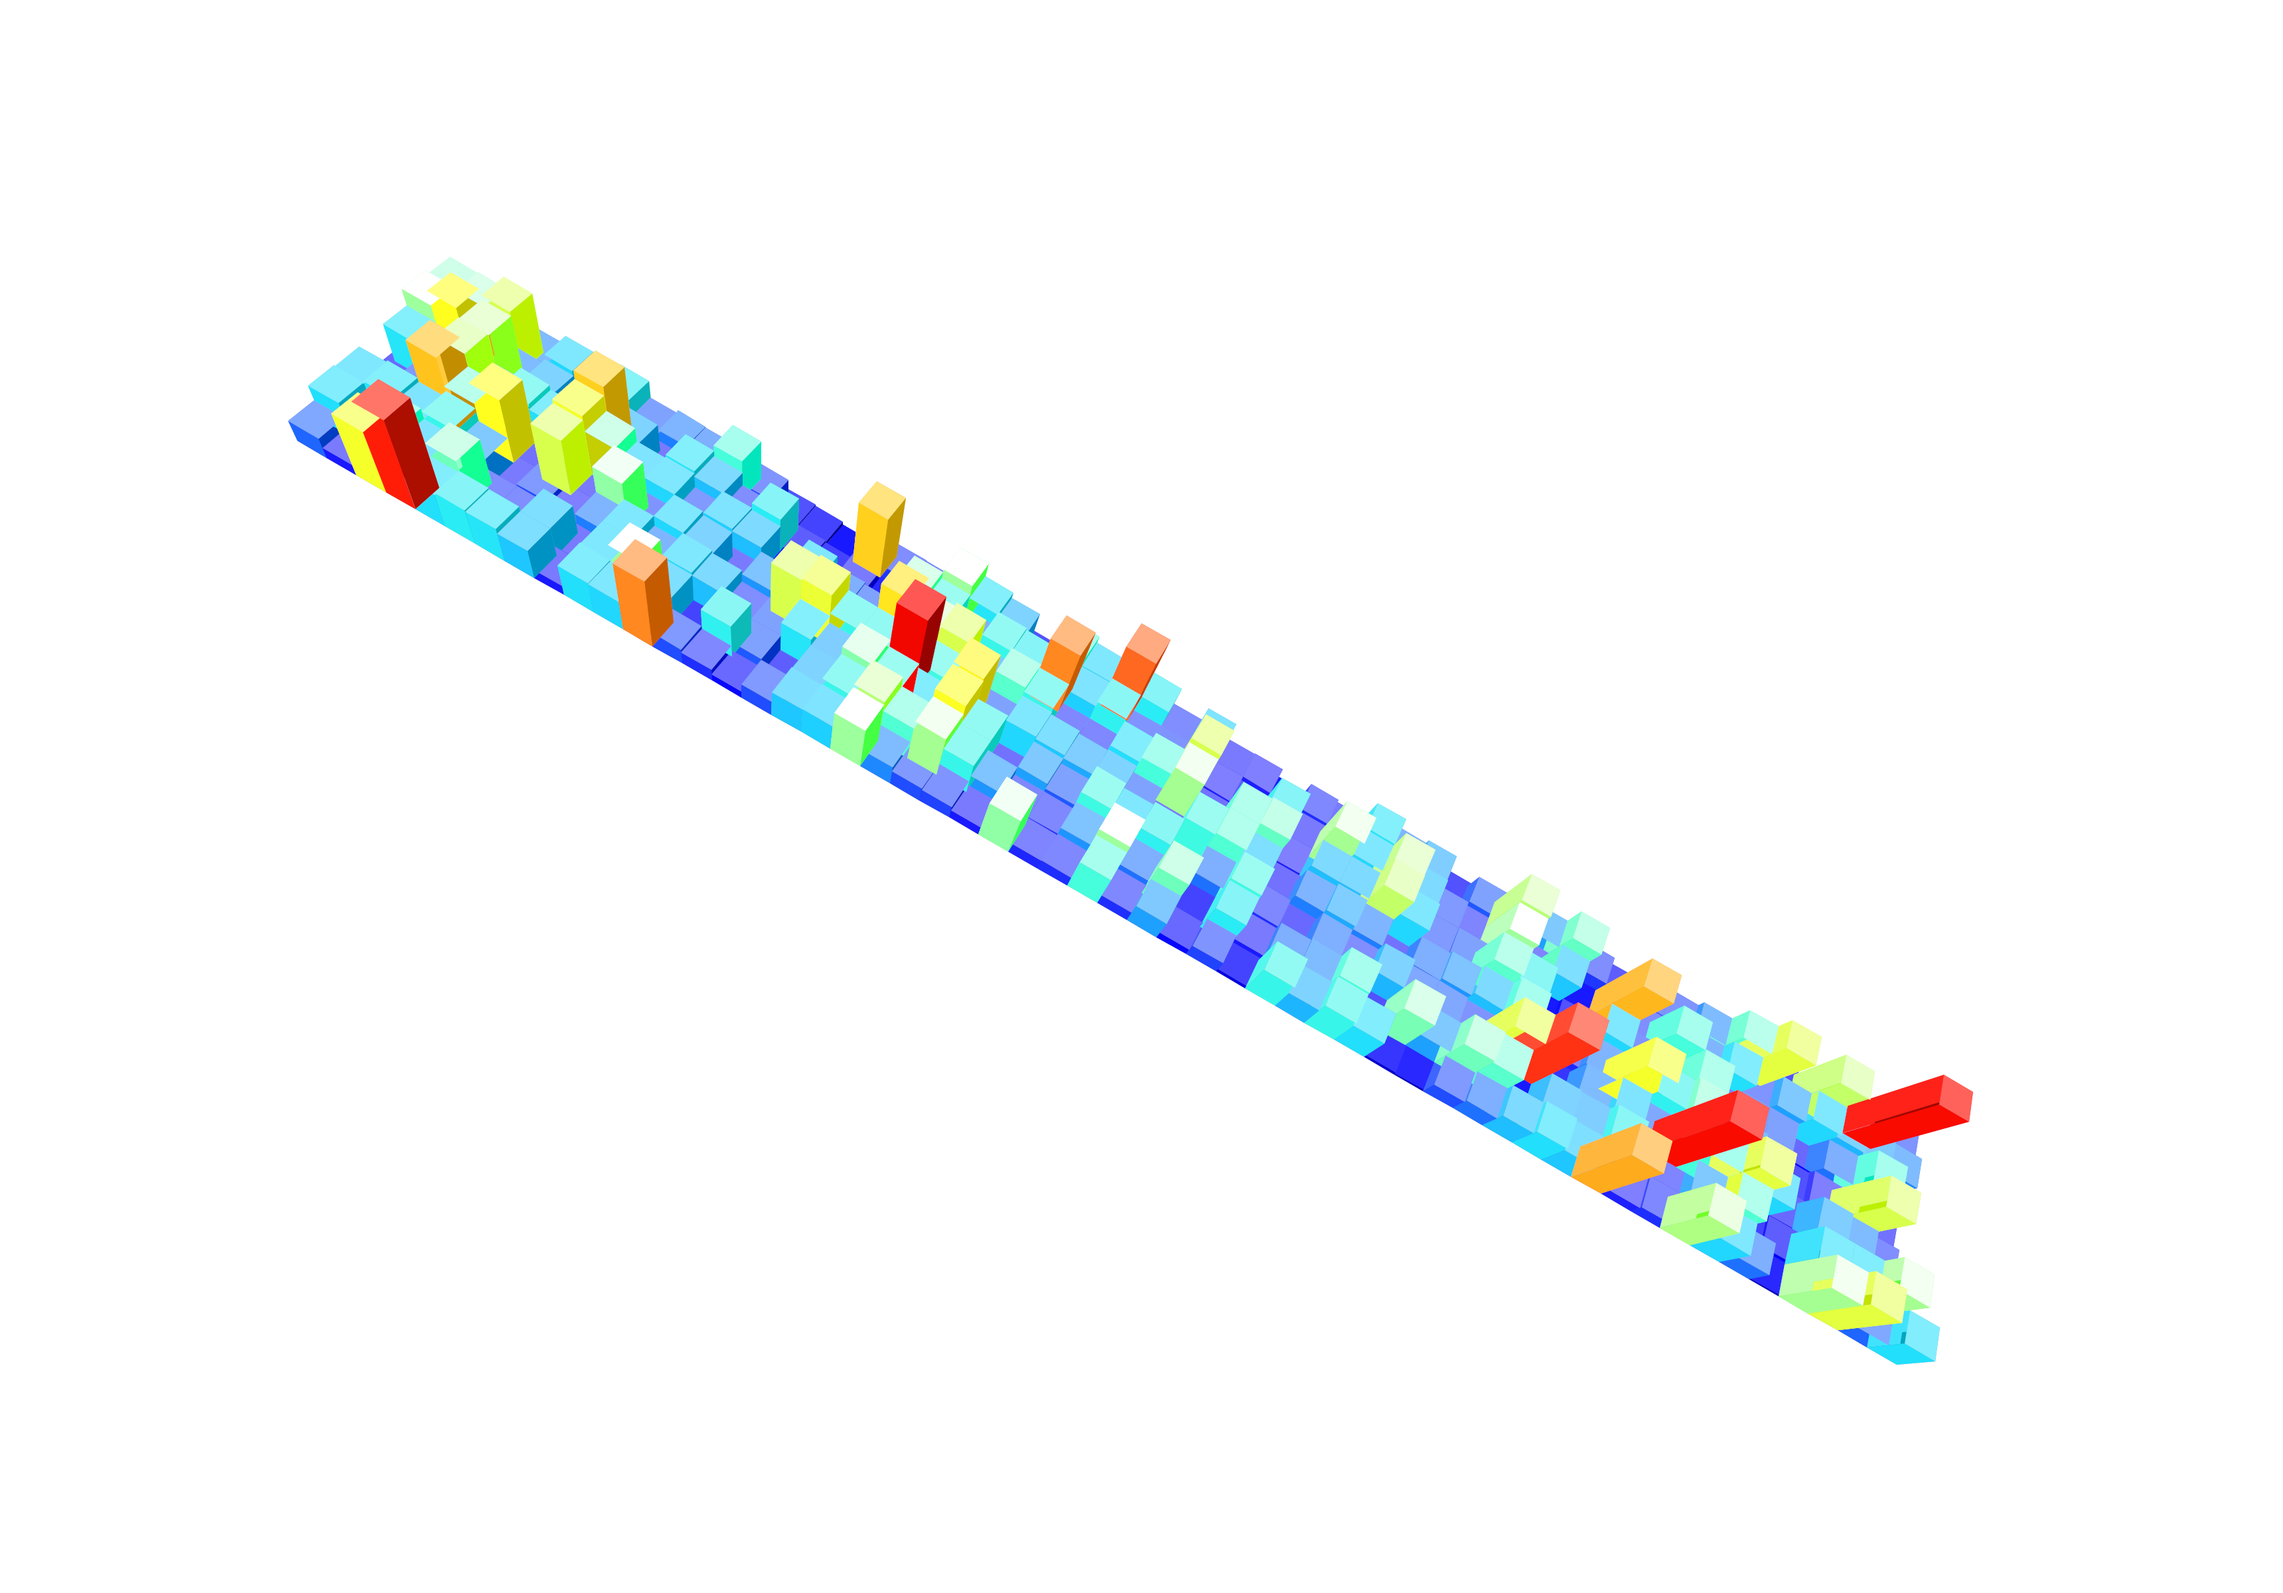
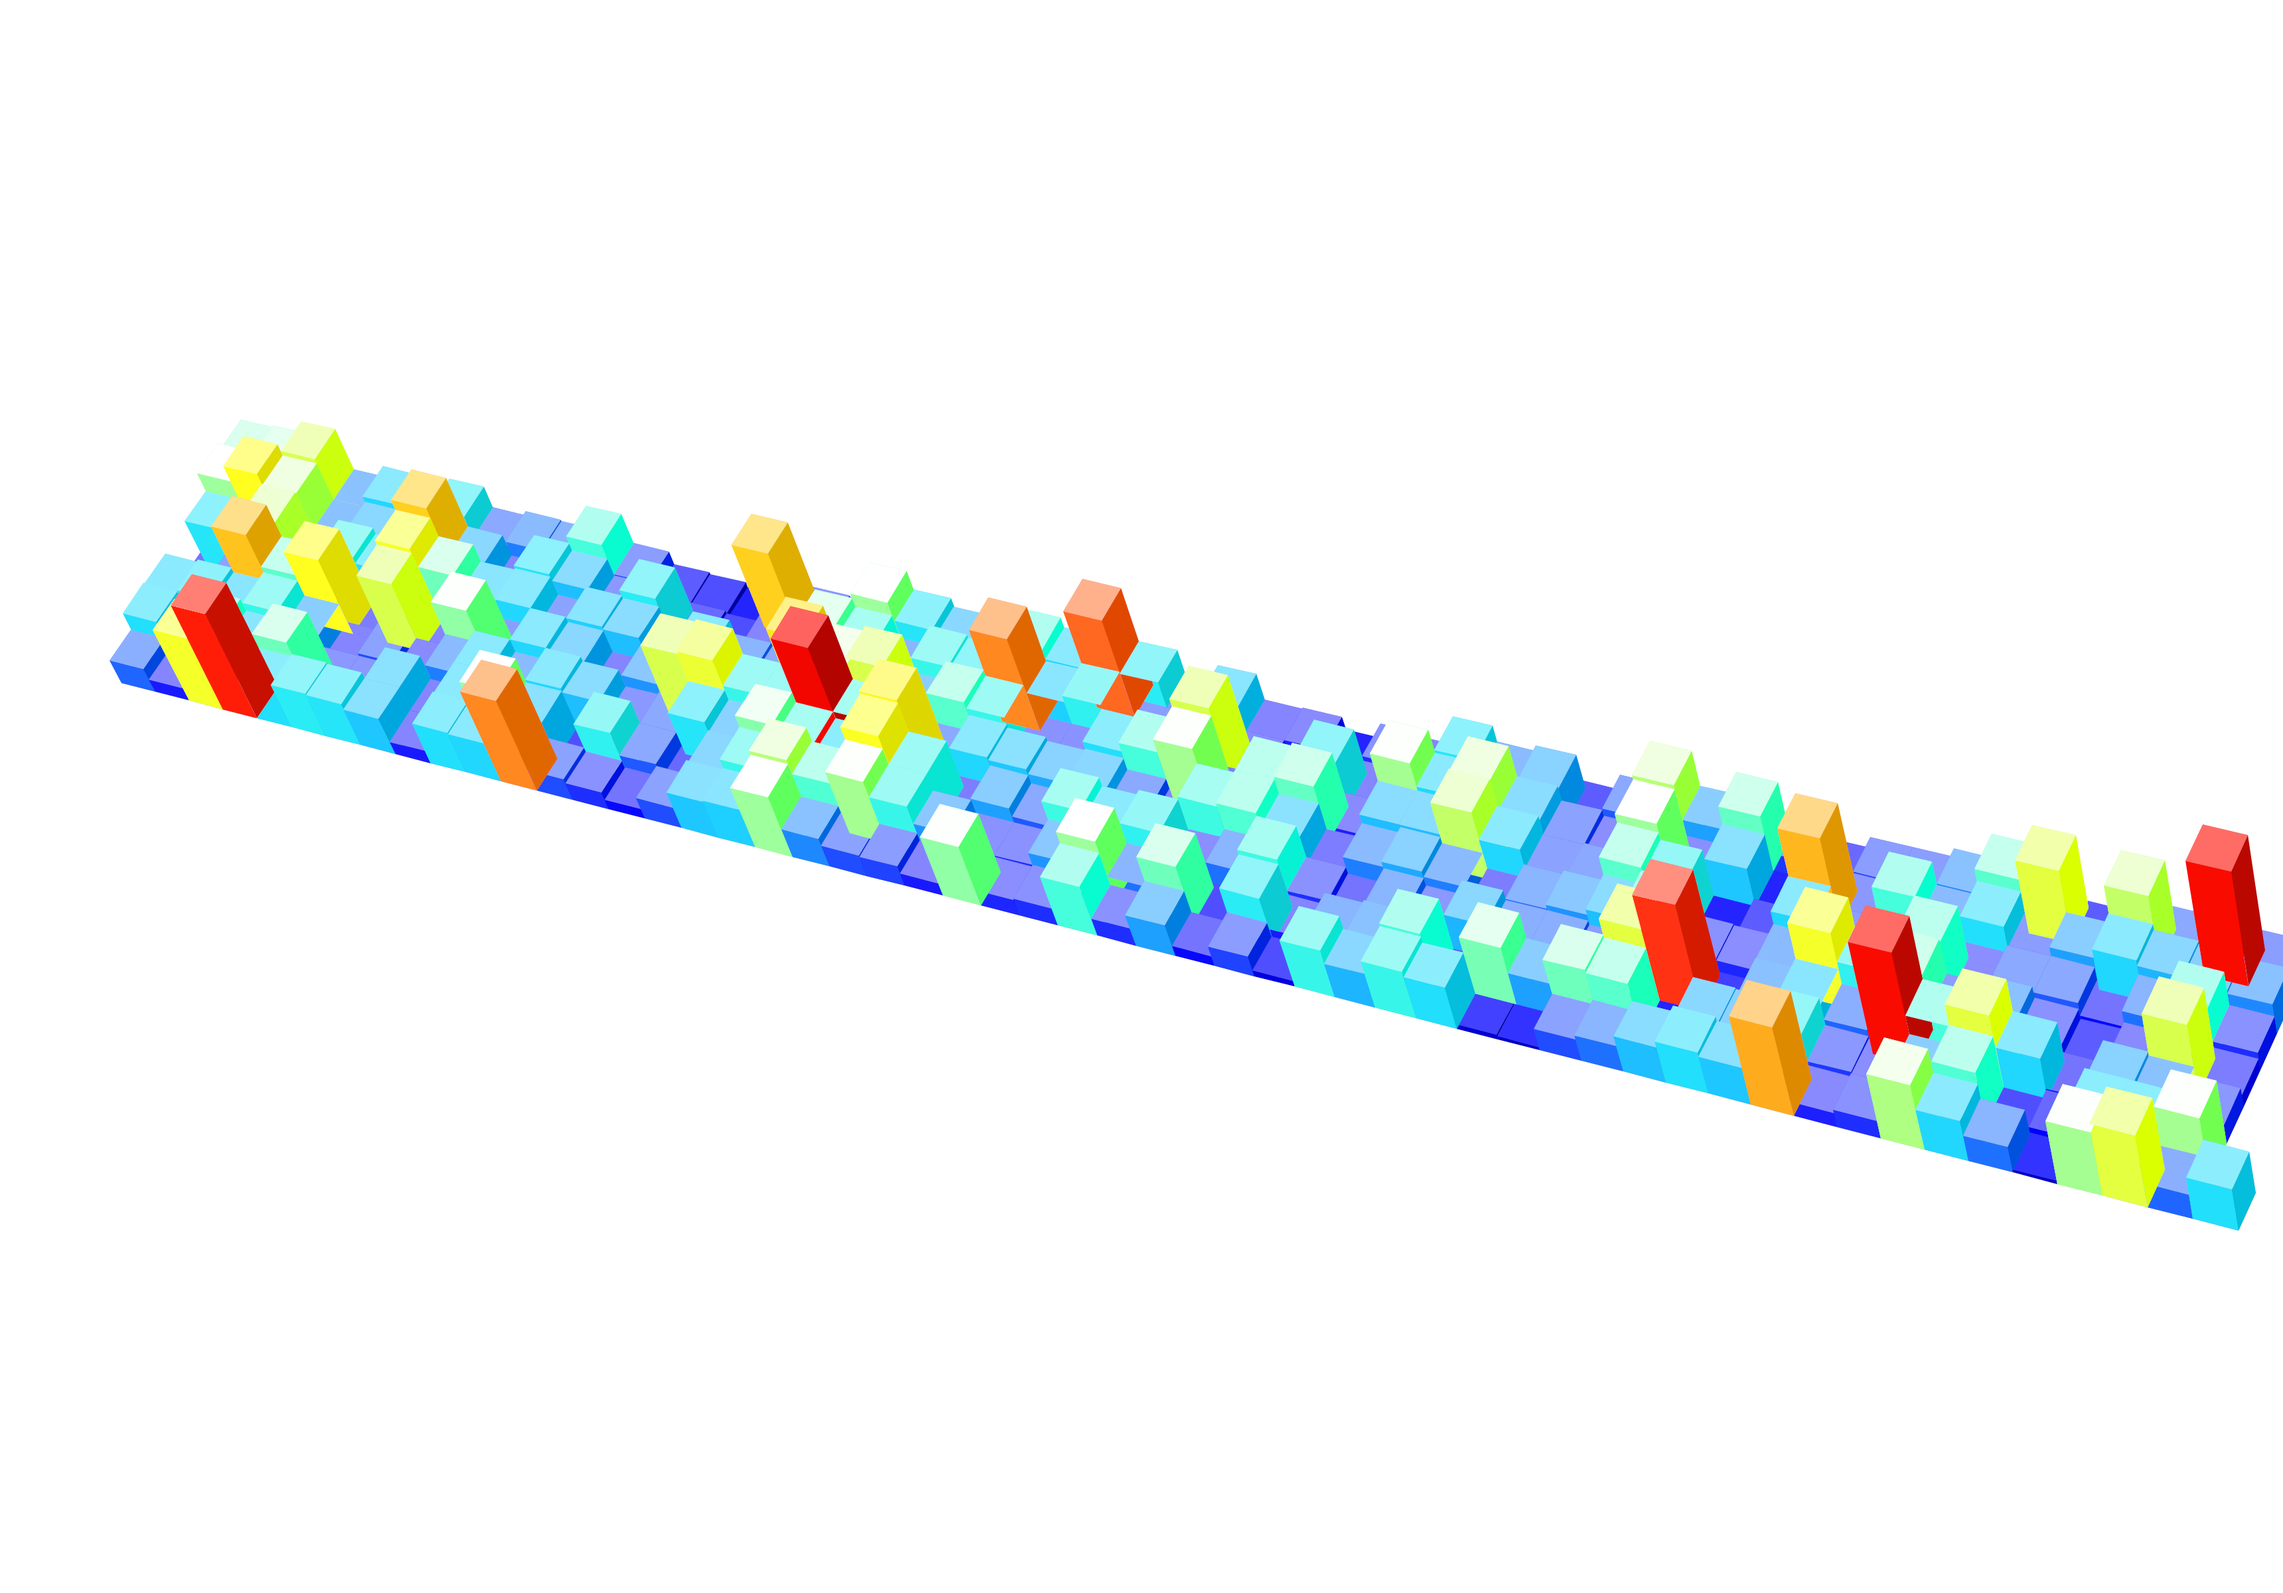
adjust 3d parameter

Changed region(s): [[0.0311, 0.1562, 1.0, 0.875]]

diff --git a/src/runtime/sciBASIC#/README.md b/src/runtime/sciBASIC#/README.md
@@ -100,6 +100,7 @@ Call bitmap.GetBinaryBitmap(BinarizationStyles.SparseGray)
 + **[2D Imaging & 3D graphics engine](./gr/Microsoft.VisualBasic.Imaging/)**
 + **[Isometric 3D graphics engine](./gr/Microsoft.VisualBasic.Imaging/Drawing3D/Models/README.md)**
 
+![](./www/data/github/xieguigang_contributions.png)
 <img src="./gr/Microsoft.VisualBasic.Imaging/Drawing3D/Models/screenshots/io.fabianterhorst.isometric.screenshot.IsometricViewTest_doScreenshotThree.png" width="450"> <img src="./gr/Datavisualization.Network/tumblr_inline_mqvdlydGCp1qz4rgp.png" width="400">
 ![](./gr/build_3DEngine/images/screenshot.png)
 
